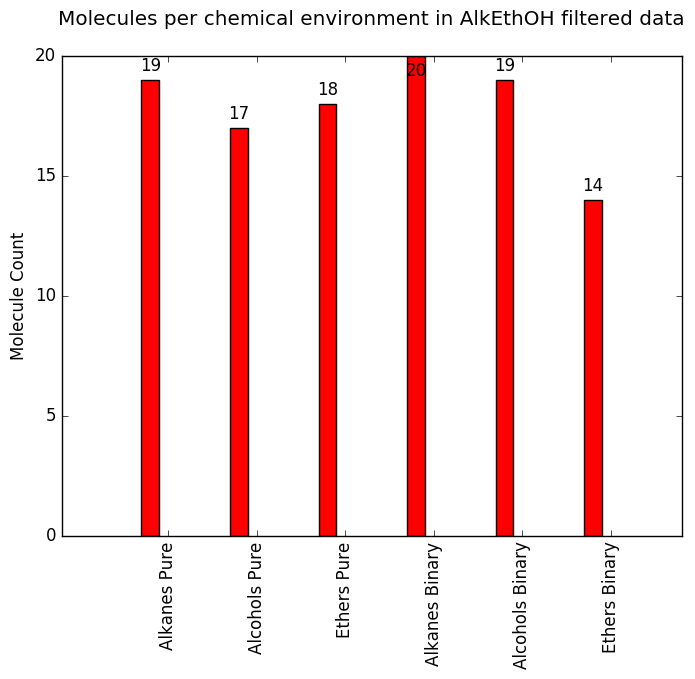
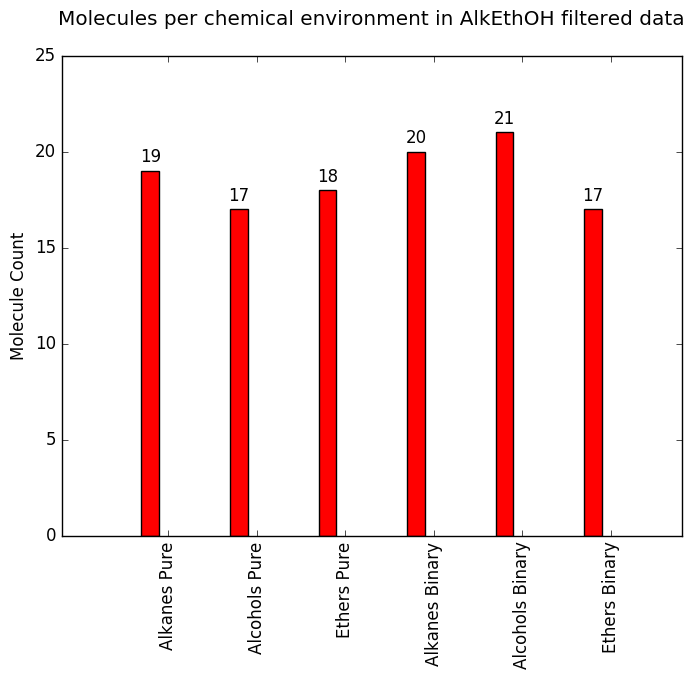
updated figs

diff --git a/Python/googlestats.py b/Python/googlestats.py
@@ -17,63 +17,63 @@ import sys
 purepath = "/home/bmanubay/.thermoml/tables/Ken/open-forcefield-data/Pure-Solvents/Component counts/"
 mixdpath = "/home/bmanubay/.thermoml/tables/Ken/open-forcefield-data/Binary-Mixtures/Component counts/"
 
-a0 = pd.read_csv(purepath+"purecomp_counts_all.csv", sep=";", usecols=["Count", "SMILES"])
+a0 = pd.read_csv(purepath+"purecomp_counts_all_full.csv", sep=";", usecols=["Count", "SMILES"])
 a0 = a0.rename(columns={"Count":"PureAll"})
-a1 = pd.read_csv(purepath+"purecomp_counts_dens.csv", sep=";", usecols=["Count", "SMILES"])
+a1 = pd.read_csv(purepath+"purecomp_counts_dens_full.csv", sep=";", usecols=["Count", "SMILES"])
 a1 = a1.rename(columns={"Count":"PureDens"})
-a2 = pd.read_csv(purepath+"purecomp_counts_sos.csv", sep=";", usecols=["Count", "SMILES"])
+a2 = pd.read_csv(purepath+"purecomp_counts_sos_full.csv", sep=";", usecols=["Count", "SMILES"])
 a2 = a2.rename(columns={"Count":"PureSOS"})
-a3 = pd.read_csv(purepath+"purecomp_counts_dielec.csv", sep=";", usecols=["Count", "SMILES"])
+a3 = pd.read_csv(purepath+"purecomp_counts_dielec_full.csv", sep=";", usecols=["Count", "SMILES"])
 a3 = a3.rename(columns={"Count":"PureDielec"})
-a4 = pd.read_csv(purepath+"purecomp_counts_cpmol.csv", sep=";", usecols=["Count", "SMILES"])
+a4 = pd.read_csv(purepath+"purecomp_counts_cpmol_full.csv", sep=";", usecols=["Count", "SMILES"])
 a4 = a4.rename(columns={"Count":"PureCP"})
-a5 = pd.read_csv(purepath+"purecomp_counts_hvap.csv", sep=";", usecols=["Count", "SMILES"])
+a5 = pd.read_csv(purepath+"purecomp_counts_hvap_full.csv", sep=";", usecols=["Count", "SMILES"])
 a5 = a5.rename(columns={"Count":"PureHvap"})
 
-aa0 = pd.read_csv(purepath+"purecomp_counts_all_AlkEthOH.csv", sep=";", usecols=["Count", "SMILES"])
+aa0 = pd.read_csv(purepath+"purecomp_counts_all_full_AlkEthOH.csv", sep=";", usecols=["Count", "SMILES"])
 aa0 = aa0.rename(columns={"Count":"PureAllAlk"})
-aa1 = pd.read_csv(purepath+"purecomp_counts_dens_AlkEthOH.csv", sep=";", usecols=["Count", "SMILES"])
+aa1 = pd.read_csv(purepath+"purecomp_counts_dens_full_AlkEthOH.csv", sep=";", usecols=["Count", "SMILES"])
 aa1 = aa1.rename(columns={"Count":"PureDensAlk"})
-aa2 = pd.read_csv(purepath+"purecomp_counts_sos_AlkEthOH.csv", sep=";", usecols=["Count", "SMILES"])
+aa2 = pd.read_csv(purepath+"purecomp_counts_sos_full_AlkEthOH.csv", sep=";", usecols=["Count", "SMILES"])
 aa2 = aa2.rename(columns={"Count":"PureSOSAlk"})
-aa3 = pd.read_csv(purepath+"purecomp_counts_dielec_AlkEthOH.csv", sep=";", usecols=["Count", "SMILES"])
+aa3 = pd.read_csv(purepath+"purecomp_counts_dielec_full_AlkEthOH.csv", sep=";", usecols=["Count", "SMILES"])
 aa3 = aa3.rename(columns={"Count":"PureDielecAlk"})
-aa4 = pd.read_csv(purepath+"purecomp_counts_cpmol_AlkEthOH.csv", sep=";", usecols=["Count", "SMILES"])
+aa4 = pd.read_csv(purepath+"purecomp_counts_cpmol_full_AlkEthOH.csv", sep=";", usecols=["Count", "SMILES"])
 aa4 = aa4.rename(columns={"Count":"PureCPAlk"})
-aa5 = pd.read_csv(purepath+"purecomp_counts_hvap_AlkEthOH.csv", sep=";", usecols=["Count", "SMILES"])
+aa5 = pd.read_csv(purepath+"purecomp_counts_hvap_full_AlkEthOH.csv", sep=";", usecols=["Count", "SMILES"])
 aa5 = aa5.rename(columns={"Count":"PureHvapAlk"})
 
-b0 = pd.read_csv(mixdpath+"bincomp_counts_all.csv", sep=";", usecols=["Count", "SMILES"])
+b0 = pd.read_csv(mixdpath+"bincomp_counts_all_full.csv", sep=";", usecols=["Count", "SMILES"])
 b0 = b0.rename(columns={"Count":"BinAll"})
-b1 = pd.read_csv(mixdpath+"bincomp_counts_dens.csv", sep=";", usecols=["Count", "SMILES"])
+b1 = pd.read_csv(mixdpath+"bincomp_counts_dens_full.csv", sep=";", usecols=["Count", "SMILES"])
 b1 = b1.rename(columns={"Count":"BinDens"})
-b2 = pd.read_csv(mixdpath+"bincomp_counts_sos.csv", sep=";", usecols=["Count", "SMILES"])
+b2 = pd.read_csv(mixdpath+"bincomp_counts_sos_full.csv", sep=";", usecols=["Count", "SMILES"])
 b2 = b2.rename(columns={"Count":"BinSOS"})
-b3 = pd.read_csv(mixdpath+"bincomp_counts_dielec.csv", sep=";", usecols=["Count", "SMILES"])
+b3 = pd.read_csv(mixdpath+"bincomp_counts_dielec_full.csv", sep=";", usecols=["Count", "SMILES"])
 b3 = b3.rename(columns={"Count":"BinDielec"})
-b4 = pd.read_csv(mixdpath+"bincomp_counts_eme.csv", sep=";", usecols=["Count", "SMILES"])
+b4 = pd.read_csv(mixdpath+"bincomp_counts_eme_full.csv", sep=";", usecols=["Count", "SMILES"])
 b4 = b4.rename(columns={"Count":"BinEME"})
-b5 = pd.read_csv(mixdpath+"bincomp_counts_emcp.csv", sep=";", usecols=["Count", "SMILES"])
+b5 = pd.read_csv(mixdpath+"bincomp_counts_emcp_full.csv", sep=";", usecols=["Count", "SMILES"])
 b5 = b5.rename(columns={"Count":"BinEMC"})
-b6 = pd.read_csv(mixdpath+"bincomp_counts_emv.csv", sep=";", usecols=["Count", "SMILES"])
+b6 = pd.read_csv(mixdpath+"bincomp_counts_emv_full.csv", sep=";", usecols=["Count", "SMILES"])
 b6 = b6.rename(columns={"Count":"BinEMV"})
-b7 = pd.read_csv(mixdpath+"bincomp_counts_actcoeff.csv", sep=";", usecols=["Count", "SMILES"])
+b7 = pd.read_csv(mixdpath+"bincomp_counts_actcoeff_full.csv", sep=";", usecols=["Count", "SMILES"])
 b7 = b7.rename(columns={"Count":"BinAct"})
-bb0 = pd.read_csv(mixdpath+"bincomp_counts_all_AlkEthOH.csv", sep=";", usecols=["Count", "SMILES"])
+bb0 = pd.read_csv(mixdpath+"bincomp_counts_all_full_AlkEthOH.csv", sep=";", usecols=["Count", "SMILES"])
 bb0 = bb0.rename(columns={"Count":"BinAllAlk"})
-bb1 = pd.read_csv(mixdpath+"bincomp_counts_dens_AlkEthOH.csv", sep=";", usecols=["Count", "SMILES"])
+bb1 = pd.read_csv(mixdpath+"bincomp_counts_dens_full_AlkEthOH.csv", sep=";", usecols=["Count", "SMILES"])
 bb1 = bb1.rename(columns={"Count":"BinDensAlk"})
-bb2 = pd.read_csv(mixdpath+"bincomp_counts_sos_AlkEthOH.csv", sep=";", usecols=["Count", "SMILES"])
+bb2 = pd.read_csv(mixdpath+"bincomp_counts_sos_full_AlkEthOH.csv", sep=";", usecols=["Count", "SMILES"])
 bb2 = bb2.rename(columns={"Count":"BinSOSAlk"})
-bb3 = pd.read_csv(mixdpath+"bincomp_counts_dielec_AlkEthOH.csv", sep=";", usecols=["Count", "SMILES"])
+bb3 = pd.read_csv(mixdpath+"bincomp_counts_dielec_full_AlkEthOH.csv", sep=";", usecols=["Count", "SMILES"])
 bb3 = bb3.rename(columns={"Count":"BinDielecAlk"})
-bb4 = pd.read_csv(mixdpath+"bincomp_counts_eme_AlkEthOH.csv", sep=";", usecols=["Count", "SMILES"])
+bb4 = pd.read_csv(mixdpath+"bincomp_counts_eme_full_AlkEthOH.csv", sep=";", usecols=["Count", "SMILES"])
 bb4 = bb4.rename(columns={"Count":"BinEMEAlk"})
-bb5 = pd.read_csv(mixdpath+"bincomp_counts_emcp_AlkEthOH.csv", sep=";", usecols=["Count", "SMILES"])
+bb5 = pd.read_csv(mixdpath+"bincomp_counts_emcp_full_AlkEthOH.csv", sep=";", usecols=["Count", "SMILES"])
 bb5 = bb5.rename(columns={"Count":"BinEMCAlk"})
-bb6 = pd.read_csv(mixdpath+"bincomp_counts_emv_AlkEthOH.csv", sep=";", usecols=["Count", "SMILES"])
+bb6 = pd.read_csv(mixdpath+"bincomp_counts_emv_full_AlkEthOH.csv", sep=";", usecols=["Count", "SMILES"])
 bb6 = bb6.rename(columns={"Count":"BinEMVAlk"})
-bb7 = pd.read_csv(mixdpath+"bincomp_counts_actcoeff_AlkEthOH.csv", sep=";", usecols=["Count", "SMILES"])
+bb7 = pd.read_csv(mixdpath+"bincomp_counts_actcoeff_full_AlkEthOH.csv", sep=";", usecols=["Count", "SMILES"])
 bb7 = bb7.rename(columns={"Count":"BinActAlk"})
 
 # Merge dataframes on SMILES column
